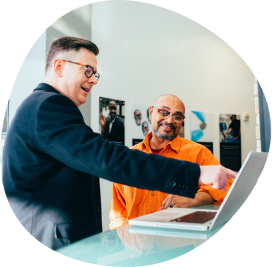
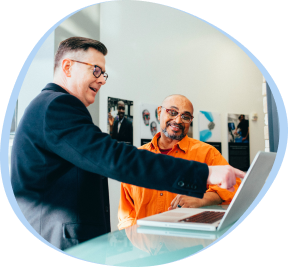
Update Happy Client section

diff --git a/index.html b/index.html
@@ -108,7 +108,7 @@
 
         <!-- Service -->
         <section
-            class="flex flex-col items-center justify-center gap-[20px] md:gap-[50px] xl:gap-[60px] bg-[#E9F4FF] px-[20px] py-[40px] md:p-[60px] xl:px-[135px] xl:-[80px]">
+            class="flex flex-col items-center justify-center gap-[30px] md:gap-[50px] xl:gap-[60px] bg-[#E9F4FF] px-[20px] py-[40px] md:p-[60px] xl:px-[135px] xl:-[80px]">
             <h1 class="text-[#1A2630] text-[24px] md:text-[32px] xl:text-[48px] font-bold">
                 Our
                 <span class="relative text-[#1A2630]">Services
@@ -315,42 +315,41 @@
 
         <!-- Happy Section -->
         <section
-            class="flex flex-col gap-[20px] justify-center items-center px-[20px] py-[70px] md:px-[60px] xl:px-[135px]">
+            class="flex flex-col gap-[20px] justify-center items-center px-[20px] py-[70px] md:px-[67px] md:py-[100px] xl:px-[135px]">
             <h1 class="text-[#1A2630] text-[24px] md:text-[32px] xl:text-[48px] font-bold">
                 Happy
                 <span class="relative text-[#1A2630]">stories
                     <img src="./assets/icons/Vector 3.svg"
-                        class="absolute left-0 top-[30px] w-[380px] h-[3.5px] md:top-[40px] md:w-[100px] md:h-[7px] xl:top-[60px] xl:w-[360px] xl:h-[15px]">
+                        class="absolute left-0 top-[30px] w-[380px] h-[3.5px] md:top-[40px] md:w-[100px] md:h-[7px] xl:top-[60px] xl:w-[300px] xl:h-[7px]">
                 </span>
                 of our clients
             </h1>
 
-            <div>
+            <div class="md:flex md:flex-row xl:flex-row md:justify-center md:items-center md:gap-[30px] mt-[40px] md:mt-[50px] xl:mt-[82px]">
                 <button
                     class="hidden md:block md:w-[50px] md:h-[50px] md:bg-[#F4F6FE] md:rounded-full md:flex md:justify-center md:items-center">
                     <img src="./assets/icons/arrow-left.svg">
                 </button>
 
-                <div class="bg-[#F4F6FE] rounded-[15px] flex flex-col justify-center items-center px-[20px] py-[35px]">
+                <div
+                    class="bg-[#F4F6FE] rounded-[15px] flex flex-col xl:flex-row md:w-[482px] md:h-[686px] xl:w-[970px] xl:h-[383px] justify-center items-center px-[20px] py-[35px] md:px-[30px] md:py-[370px] xl:py-0 xl:px-[40px] gap-[40px] md:gap-[50px] xl:gap-[60px]">
 
-                    <div class="flex flex-col gap-[40px] justify-center items-center">
-                        <img src="./assets/images/Mask group.png" class="w-[238px] h-[220px]">
+                    <img src="./assets/images/Mask group.png" class="w-[238px] h-[220px] md:w-[288px] md:h-[267px]">
 
-                        <div class="flex flex-col justify-center items-center gap-[20px]">
-                            <img src="./assets/icons/quote.svg" class="w-[38px] h-[31px]">
-                            <p class="text-[18px]/8 font-[400] text-center">
-                                With our extensive experience and deep understanding of brand strategy, design, and
-                                storytelling, we collaborate closely with our clients to craft brand experiences that
-                                resonate with their target audience. Our goal is to create brands that not only capture
-                                attention but also foster trust, loyalty, and recognition.
-                            </p>
+                    <div class="flex flex-col justify-center items-center gap-[20px] md:gap-[30px] xl:gap-[15px]">
+                        <img src="./assets/icons/quote.svg" class="w-[38px] h-[31px]">
+                        <p class="text-[18px]/8 md:text-[22px]/8 font-[400] text-center text-[#4F5863] xl:hidden">
+                            With our extensive experience and deep understanding of brand strategy, design, and
+                            storytelling, we collaborate closely with our clients to craft brand experiences that
+                            resonate with their target audience. Our goal is to create brands that not only capture
+                            attention but also foster trust, loyalty, and recognition.
+                        </p>
 
-                            <p class=" text-center" hidden>
-                                Their design process is really unique. They collaborated with us on our project. The
-                                communication was simple and transparent. They have a talented team of designer who
-                                understands the insights very clearly and continues to push their efforts.
-                            </p>
-                        </div>
+                        <p class="xl:text-[25px]/8 xl:font-[400] xl:text-justify xl:text-[#4F5863] hidden xl:block">
+                            Their design process is really unique. They collaborated with us on our project. The
+                            communication was simple and transparent. They have a talented team of designer who
+                            understands the insights very clearly and continues to push their efforts.
+                        </p>
                     </div>
                 </div>
 